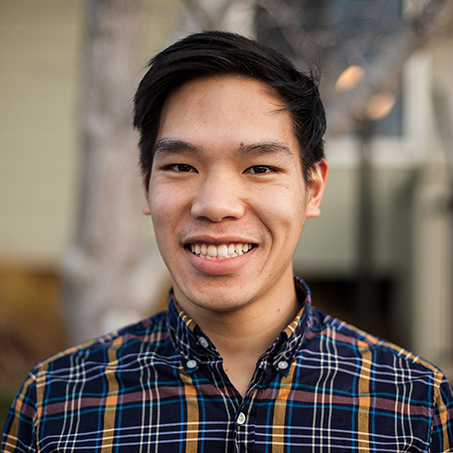
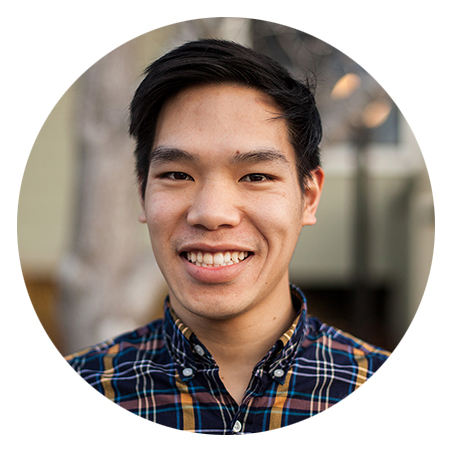
update about page

diff --git a/about.html b/about.html
@@ -30,16 +30,26 @@
 			</nav>
 			<section class="section-about section-intro row center-xs wrapper">
 				<div class="content col-xs-10 col-sm-8 col-md-8 col-lg-7">
-					<div class="row">
-						<div class="col-xs-12 col-sm-5">
-							<div class="element"><img src="img/profile.jpg"/></div>
+					<div class="row center-xs">
+						<div class="col-xs-12 col-sm-5 center-xs">
+							<div class="element">
+								<img src="img/profile.jpg"/>
+							</div>
 						</div>
-						<div class="col-xs-12 col-sm-6 col-sm-offset-1">
-								<p class="section-copy">I currently work as a Web Developer Contractor for Apple. Having a background in design and development, I'm fascinated with improving how humans interact with the physical and virtual worlds around them.</p>
+						<div class="col-xs-12">
+								<p class="section-copy">I'm fascinated with both virtual and physical aspects of design. I graduated in 2012 with a major in Graphic Communications concentrating on Digital Media with a minor in Packaging Design. Since then, I've taken Interactive Design courses at the School of Visual Arts and Stanford Continue Education from some of the leading experts in Design Thinking and User Experience. I learned the importance of empathy, personas, storyboarding and iteration in design.</p>
+
+								<p class="section-copy">I currently work with the Apple Marketing Team as a UI Developer Contractor, working closely with designers to build new product pages. In the past, I helped develop multiple web pages for a couple of the world's leading companies - Samsung and Apple. Examples include: iPhone SE, Apple macOS, Apple Watch Hermes, iPod, Samsung Explorer Galaxy Campaign. Furthermore, I worked on visual design layouts for a executive recruiting start-up, TalentSky.</p>
+
+								<p class="section-copy">Right now, I'm obsessed with find solutions to daily problems using digital products, which you can see here. I've been designing out a grocery app which helps shoppers discover grocery store specific recipes, designing a solution to improve parking in major cities, creating a Arduino motion sensor for my bedroom and developing a Pomodoro Timer iPhone App. You can view all my work at here or visit my daily <a href="http://alanyeh.tumblr.com/">blog</a>.</p>
+
+								<p class="section-copy">With my background in Design and Web Development, I want to hone my skills as a designer and improve on web/mobile experiences with a design team. I'm a proponent of using empathy and design thinking for solving complex design challenges. I hope to be that bridge between Designer and Developer.</p>
+
 								<p class="section-copy"> Other than design, I love rock climbing and solo-backing. Having gone on several solo-backpacking trips across the globe, these experiences has humbled my appreciated for differenct cultures around the world.<br/><br/>
 								Feel free to reach out to me at alnyeh@gmail.com
 								</p>
 							</div>
+
 						</div>
 					</div>
 					<div class="push"></div>

diff --git a/index.html b/index.html
@@ -54,24 +54,6 @@
 						</div>
 					</section>
 				</a>
-				<a href="recipe.html">
-					<section class="section-fresh row center-xs box">
-						<div class="overlay"></div>
-						<div class="content col-xs-10 col-sm-8 col-md-8 col-lg-7">
-							<div class="row start-md middle-sm">
-								<div class="col-xs-12 col-sm-6 image">
-									<div class="element"><img src="img/recipe-app-login.png"/>
-									</div>
-								</div>
-								<div class="col-xs-12 col-sm-5 col-sm-offset-1">
-									<h2 class="section-header">Fresh App</h2>
-									<h3 class="section-subhead">Case Study, Interface Design</h3>
-									<h4 class="subsection-subhead">Location based Recipe App</h4>
-								</div>
-							</div>
-						</div>
-					</section>
-				</a>
 				<a href="parking.html">
 					<section class="section-parking row center-xs background-alt box">
 						<div class="overlay"></div>
@@ -101,6 +83,24 @@
 									<h2 class="section-header">Airplane Ticket Redesign</h2>
 									<h3 class="section-subhead">Case Study</h3>
 									<h4 class="subsection-subhead">Sketch, Photoshop</h4>
+								</div>
+							</div>
+						</div>
+					</section>
+				</a>
+				<a href="recipe.html">
+					<section class="section-fresh row center-xs box">
+						<div class="overlay"></div>
+						<div class="content col-xs-10 col-sm-8 col-md-8 col-lg-7">
+							<div class="row start-md middle-sm">
+								<div class="col-xs-12 col-sm-6 image">
+									<div class="element"><img src="img/recipe-app-login.png"/>
+									</div>
+								</div>
+								<div class="col-xs-12 col-sm-5 col-sm-offset-1">
+									<h2 class="section-header">Fresh App</h2>
+									<h3 class="section-subhead">Case Study, Interface Design</h3>
+									<h4 class="subsection-subhead">Location based Recipe App</h4>
 								</div>
 							</div>
 						</div>

diff --git a/recipe.html b/recipe.html
@@ -36,8 +36,6 @@
 							<h3 class="section-subhead">Case Study, Interface Design</h3>
 							<!-- <h4 class="subsection-subhead">Sketch, Photoshop, Illustrator</h4> -->
 							<h4 class="subsection-subhead">	This app generates recipes provided by the grocery store. By allowing location based tracking, it'll identify the grocery store nearest the user and generate recipes based on their preferences. The goal of the app is to save time by easily allowing users to purchase the necessary ingredients for the recipe all within one grocery store.</h4>
-
-							<h4 class="subsection-subhead">This app generates recipes provided by the grocery store. By allowing location based tracking, it'll identify the grocery store nearest the user and generate recipes based on their preferences. The goal of the app is to save time by easily allowing users to purchase the necessary ingredients for the recipe all within one grocery store.</h4>
 						</div>
 					</div>
 				</div>

diff --git a/css/about.css b/css/about.css
@@ -1,5 +1,6 @@
 .about .section-intro {
-  padding-bottom: 120px; }
+  padding-top: 80px;
+  padding-bottom: 100px; }
 
 .about .section-about h2 {
   text-align: left;
@@ -9,7 +10,7 @@
   margin-bottom: 0;
   margin-top: 25px;
   line-height: 29px;
-  font-size: 20px; }
+  font-size: 17px; }
   .about .section-about .section-copy:first-child {
     margin-top: 0; }
 

diff --git a/scss/about.scss b/scss/about.scss
@@ -1,6 +1,7 @@
 .about {
 	.section-intro {
-		padding-bottom: 120px;
+		padding-top: 80px;
+		padding-bottom: 100px;
 	}
 
 	.section-about {
@@ -12,7 +13,7 @@
 			margin-bottom: 0;
 			margin-top: 25px;
 			line-height: 29px;
-	    font-size: 20px;
+			font-size: 17px;
 
 			&:first-child {
 				margin-top: 0;
